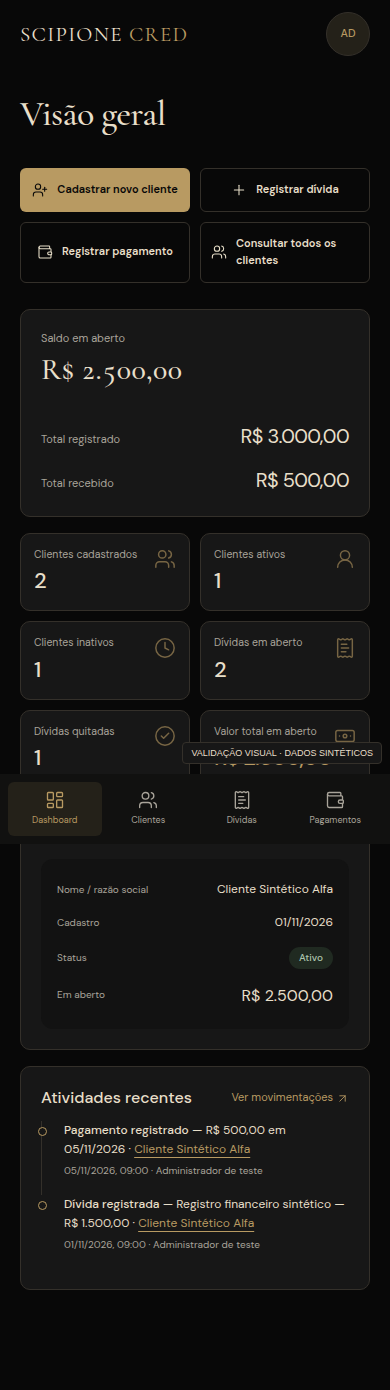
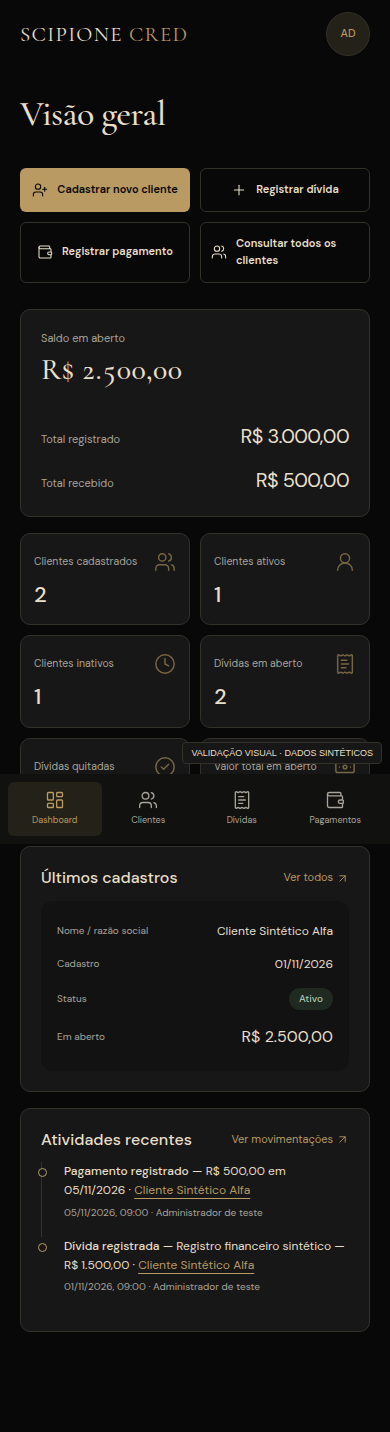
fix: alinhar o icone dos dialogos e dos cards do dashboard
O icone do dialogo de confirmacao passa a dividir a linha com o titulo, centrado e com cor de alerta; o icone dos indicadores deixa de ser absoluto e acompanha o rotulo na mesma linha flexivel, o que elimina o desvio de 2,6 px (3,6 px no mobile). A busca ganha centralizacao exata do icone.

diff --git a/src/styles/base.css b/src/styles/base.css
@@ -78,8 +78,8 @@ strong { font-weight: 600; }
 .card .rot { font-size: 11px; color: var(--muted); font-weight: 400; }
 .card strong { font: 500 30px/1.2 var(--font-body); font-variant-numeric: tabular-nums; letter-spacing: -.04em; overflow-wrap: anywhere; }
 .card.destaque strong { color: var(--ouro); }
-.metric-icon { position: absolute; top: 22px; right: 20px; color: var(--ouro); opacity: .7; }
-.card .rot { padding-right: 25px; }
+.metric-icon { display: inline-flex; flex-shrink: 0; color: var(--ouro); opacity: .7; }
+.card-top { display: flex; align-items: center; justify-content: space-between; gap: 10px; min-height: 30px; }
 .financial-overview { border: 1px solid var(--borda); background: var(--painel); border-radius: var(--radius); padding: 28px; margin: 0 0 28px; }
 .financial-overview h2 { margin-top: 0; }
 .financial-hero { padding-bottom: 24px; }
@@ -151,7 +151,7 @@ label.inline { display: inline-flex; align-items: center; margin: 0 28px 0 0; mi
 .search-field { position: relative; flex: 1; max-width: 580px; margin-bottom: 0; }
 .search-field input { margin: 0; padding-left: 42px; }
 .list-toolbar .search-field input, .list-toolbar > .btn { min-height: 48px; }
-.search-field > .icon { position: absolute; left: 14px; top: 15px; color: var(--muted); }
+.search-field > .icon { position: absolute; left: 14px; top: 50%; transform: translateY(-50%); color: var(--muted); }
 .filtros, .filter-bar { display: flex; flex-wrap: wrap; gap: 16px; align-items: flex-end; padding: 20px; border: 1px solid var(--borda); border-radius: var(--radius); background: var(--painel); margin-bottom: 24px; }
 .filtros label, .filter-bar label { margin: 0; flex: 1; min-width: 150px; }
 .filtro-toggle { position: relative; min-height: 48px; }
@@ -218,6 +218,11 @@ dd { margin: 0; overflow-wrap: anywhere; }
 .dialogo h2 { font: 500 28px var(--font-display); margin-top: 0; }
 .dialogo p { color: var(--muted); font-size: 13px; }
 .dialogo .acoes { margin-top: 26px; }
+.dialog-head { display: flex; align-items: center; gap: 12px; margin: 0 0 14px; }
+.dialog-head h2 { margin: 0; }
+.dialog-head .icon { flex-shrink: 0; color: var(--ouro); }
+.dialog-head.aviso .icon { color: var(--erro); }
+.dialog-head + p { margin-top: 0; }
 .empty-state, .error-state, .loading-state, .vazio { display: flex; flex-direction: column; align-items: center; justify-content: center; text-align: center; min-height: 220px; padding: 34px 24px; color: var(--muted); background: var(--painel); border: 1px solid var(--borda); border-radius: var(--radius); }
 .empty-state > .icon { color: var(--ouro); margin-bottom: 16px; }
 .empty-state h3, .error-state h3 { margin: 12px 0 6px; color: var(--marfim); }
@@ -253,9 +258,8 @@ dd { margin: 0; overflow-wrap: anywhere; }
 @media (min-width: 1440px) {
   .cards { grid-template-columns: repeat(6, minmax(0, 1fr)); }
   .card { padding: 22px 18px; }
-  .card .rot { min-height: 34px; }
+  .card-top { min-height: 34px; }
   .card strong { font-size: 27px; }
-  .metric-icon { top: 19px; right: 14px; }
 }
 @media (max-width: 1190px) {
   .sidebar { width: 210px; }
@@ -300,9 +304,9 @@ dd { margin: 0; overflow-wrap: anywhere; }
   .atalhos .btn { padding: 12px 10px; font-size: 11px; }
   .cards { grid-template-columns: repeat(2, minmax(0, 1fr)); gap: 10px; margin-bottom: 20px; }
   .card { padding: 18px 14px; gap: 12px; }
-  .card .rot { font-size: 10px; min-height: 28px; }
+  .card .rot { font-size: 10px; }
+  .card-top { min-height: 28px; }
   .card strong { font-size: 25px; }
-  .metric-icon { right: 13px; top: 18px; }
   .financial-overview { padding: 22px; }
   .financial-breakdown { grid-template-columns: 1fr; gap: 18px; }
   .financial-breakdown > div { display: flex; align-items: baseline; justify-content: space-between; gap: 12px; }
@@ -362,7 +366,6 @@ dd { margin: 0; overflow-wrap: anywhere; }
   .card { padding: 16px 12px; }
   .card strong { font-size: 22px; }
   .metric-icon { display: none; }
-  .card .rot { padding-right: 0; }
   .resumo { grid-template-columns: 1fr; }
   .auth-story { padding: 24px 20px; }
 }
@@ -450,9 +453,9 @@ dd { margin: 0; overflow-wrap: anywhere; }
 .financial-breakdown dd { margin-top: 6px; font-size: 20px; }
 .cards { grid-template-columns: repeat(3, minmax(0, 1fr)); gap: 12px; margin-bottom: 16px; }
 .card { padding: 15px 16px 17px; gap: 6px; }
-.card .rot { font-size: 10.5px; line-height: 1.35; min-height: 0; padding-right: 30px; }
+.card .rot { font-size: 10.5px; line-height: 1.35; }
 .card strong { font-size: 25px; }
-.metric-icon { top: 13px; right: 13px; opacity: .6; }
+.metric-icon { opacity: .6; }
 .dashboard-grid { grid-template-columns: minmax(0, 1.12fr) minmax(0, 1fr); gap: 16px; align-items: stretch; }
 .dashboard-grid .panel { display: flex; flex-direction: column; }
 .dashboard-grid .panel-header { margin-bottom: 12px; }
@@ -463,7 +466,6 @@ dd { margin: 0; overflow-wrap: anywhere; }
 @media (min-width: 1440px) {
   .cards { grid-template-columns: repeat(6, minmax(0, 1fr)); }
   .card strong { font-size: 23px; }
-  .card .rot { padding-right: 26px; }
 }
 @media (max-width: 1023px) {
   .financial-overview { grid-template-columns: 1fr; gap: 16px; padding: 20px; }

diff --git a/src/modules/dashboard.js b/src/modules/dashboard.js
@@ -21,7 +21,7 @@ export async function renderDashboard(raiz, { admin }) {
     if (!el.isConnected) return;
     const nomes = await nomesPorId(recentes.map((r) => r.devedor_id));
     if (!el.isConnected) return;
-    const card = (rotulo, valor, ico, extra = '') => `<div class="card ${extra}"><span class="metric-icon">${icon(ico, 22)}</span><span class="rot" data-ui-copy>${esc(rotulo)}</span><strong>${esc(valor)}</strong></div>`;
+    const card = (rotulo, valor, ico, extra = '') => `<div class="card ${extra}"><div class="card-top"><span class="rot" data-ui-copy>${esc(rotulo)}</span><span class="metric-icon">${icon(ico, 22)}</span></div><strong>${esc(valor)}</strong></div>`;
     const centavos = (obj, campoC, campoDecimal) => {
       if (Number.isSafeInteger(obj?.[campoC])) return obj[campoC];
       if (obj?.[campoDecimal] != null && Number.isFinite(Number(obj[campoDecimal]))) return paraCentavos(obj[campoDecimal]);

diff --git a/src/components/dialogos.js b/src/components/dialogos.js
@@ -21,7 +21,7 @@ function abrir(html, aoMontar) {
 }
 
 export function confirmar(mensagem, { confirmarTexto = 'Confirmar', perigo = false } = {}) {
-  return abrir(`<form method="dialog">${icon(perigo ? 'alert-circle' : 'shield-check', 24)}<h2 id="dialog-title">${perigo ? 'Confirmar alteração' : 'Antes de continuar'}</h2><p>${esc(mensagem)}</p>
+  return abrir(`<form method="dialog"><div class="dialog-head${perigo ? ' aviso' : ''}">${icon(perigo ? 'alert-circle' : 'shield-check', 22)}<h2 id="dialog-title">${perigo ? 'Confirmar alteração' : 'Antes de continuar'}</h2></div><p>${esc(mensagem)}</p>
     <div class="acoes"><button type="button" data-n class="sec">Cancelar</button><button type="button" data-s class="${perigo ? 'perigo' : ''}">${esc(confirmarTexto)}</button></div></form>`,
   (d, fechar) => {
     d.querySelector('[data-n]').onclick = () => fechar(false);
